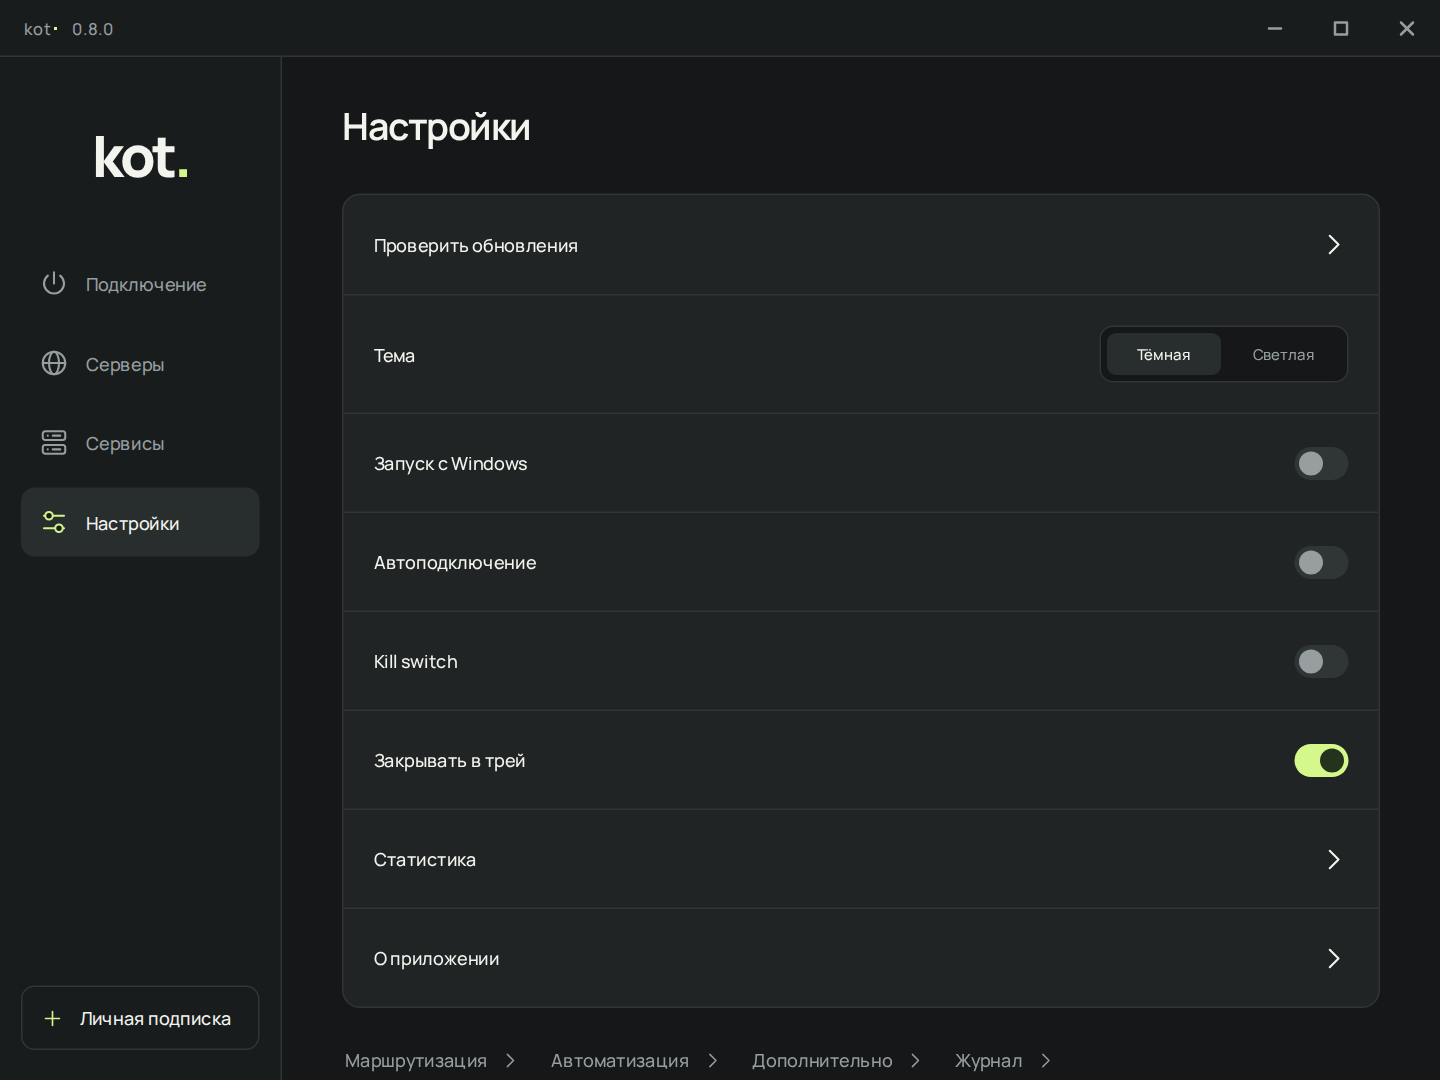
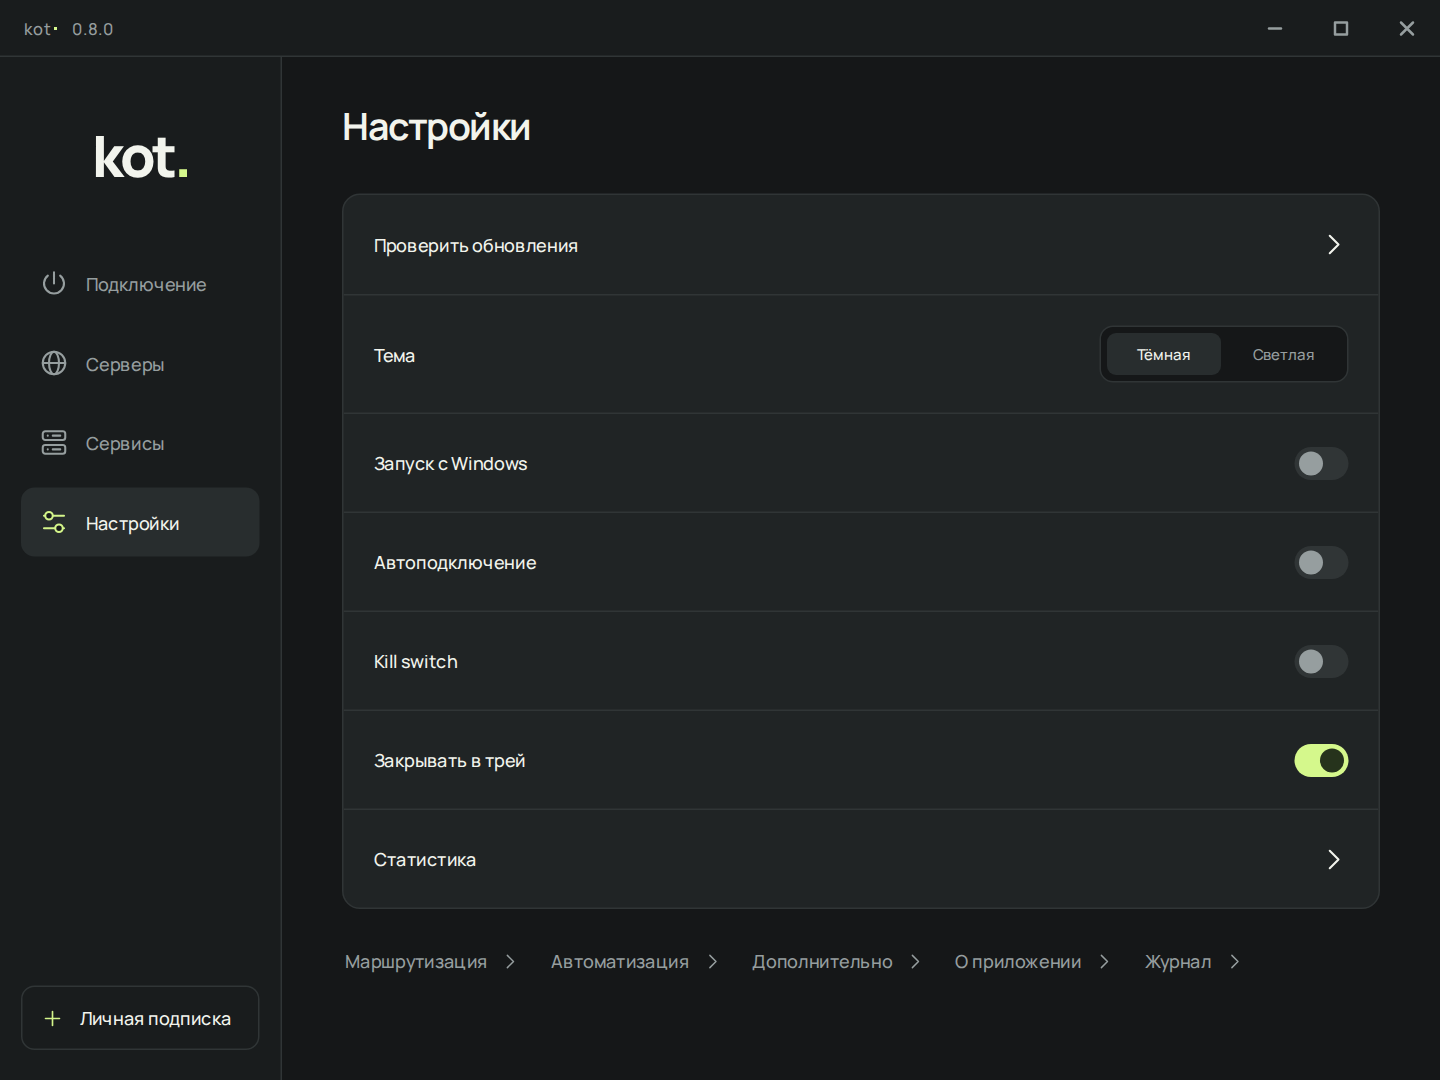
Keep About access within compact settings and refresh social card

diff --git a/Windows/ui/index.html b/Windows/ui/index.html
@@ -271,9 +271,8 @@ button:disabled,input:disabled,select:disabled,textarea:disabled{cursor:not-allo
         <div class="setting-row"><span title="Блокирует прямой интернет при сбое соединения. Отключение вручную снимает блокировку.">Kill switch</span><button class="switch" role="switch" aria-checked="false" aria-label="Kill switch" data-setting="killSwitch"></button></div>
         <div class="setting-row"><span>Закрывать в трей</span><button class="switch" role="switch" aria-checked="true" aria-label="Закрывать в трей" data-setting="tray"></button></div>
         <button class="setting-row setting-action" id="statisticsButton" type="button" data-page="statistics"><span>Статистика</span><svg aria-hidden="true"><use href="#arrow"/></svg></button>
-        <button class="setting-row setting-action" id="aboutButton" type="button"><span>О приложении</span><svg aria-hidden="true"><use href="#arrow"/></svg></button>
       </div>
-      <div class="settings-tools" data-reveal><button class="settings-link" id="routingButton">Маршрутизация<svg><use href="#arrow"/></svg></button><button class="settings-link" id="automationButton">Автоматизация<svg><use href="#arrow"/></svg></button><button class="settings-link" id="advancedButton">Дополнительно<svg><use href="#arrow"/></svg></button><button class="settings-link" type="button" data-page="logs">Журнал<svg><use href="#arrow"/></svg></button></div>
+      <div class="settings-tools" data-reveal><button class="settings-link" id="routingButton">Маршрутизация<svg><use href="#arrow"/></svg></button><button class="settings-link" id="automationButton">Автоматизация<svg><use href="#arrow"/></svg></button><button class="settings-link" id="advancedButton">Дополнительно<svg><use href="#arrow"/></svg></button><button class="settings-link" id="aboutButton" type="button">О приложении<svg aria-hidden="true"><use href="#arrow"/></svg></button><button class="settings-link" type="button" data-page="logs">Журнал<svg><use href="#arrow"/></svg></button></div>
     </section>
   </main>
 </div>
